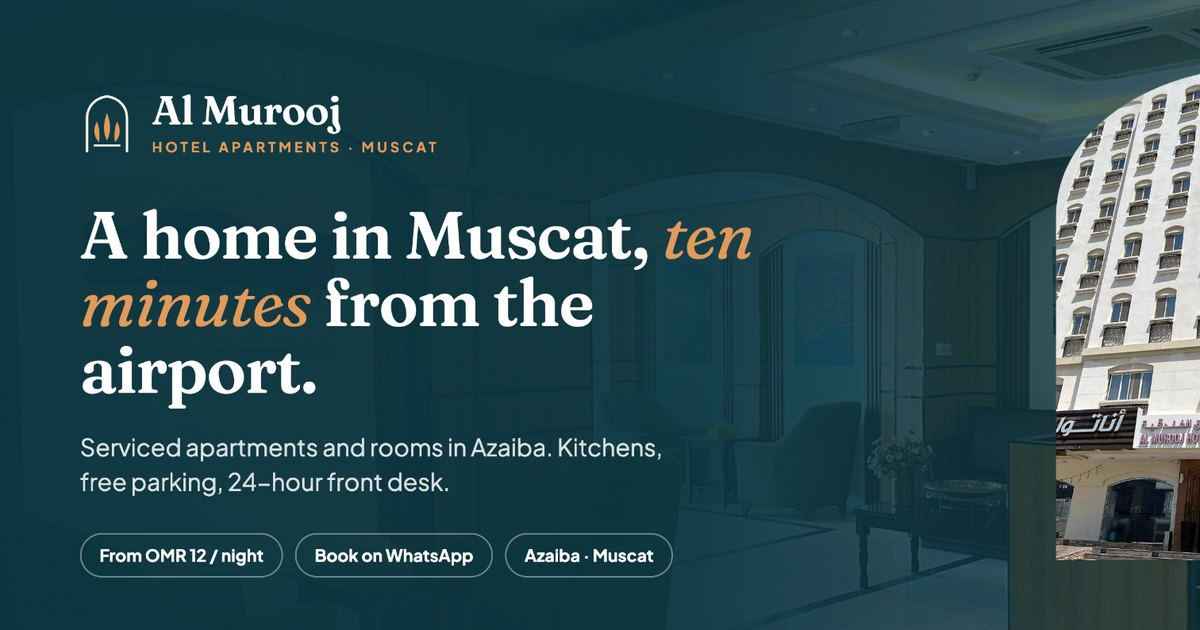
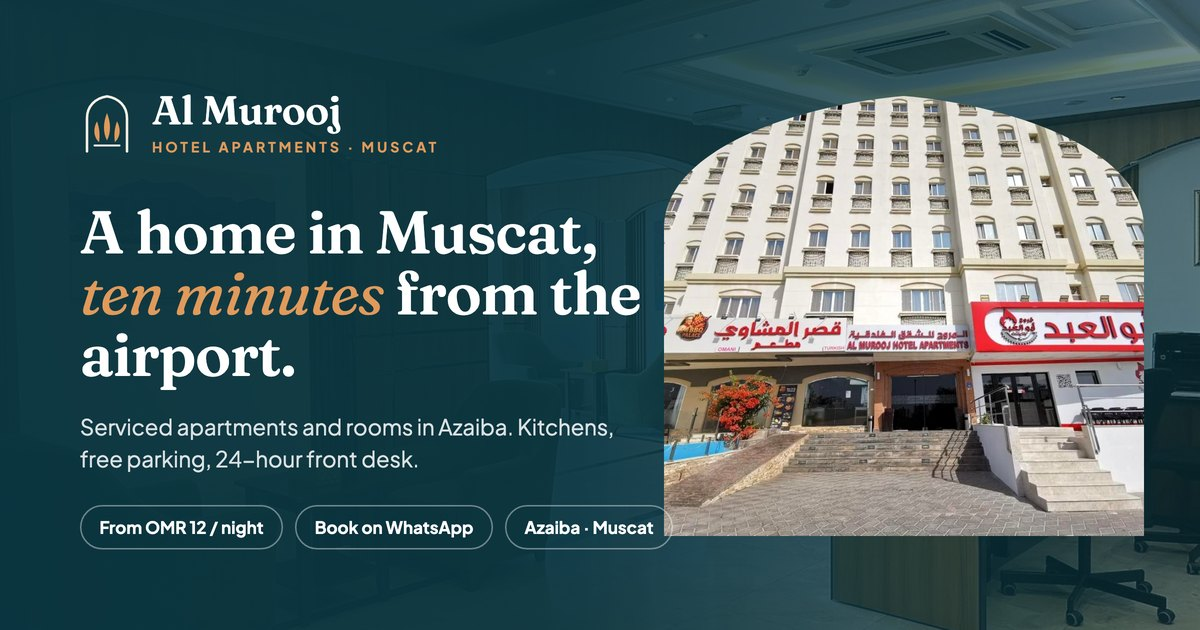
Hero: use the owner's chosen street photo as the main image
The hotel asked on WhatsApp for the street-level photo (building, entrance
steps and restaurants) as the main photo. It is the same shot as the listing's
exterior-street.jpg, so the 1280px copy is used instead of the 697px WhatsApp
file. The hero arch is now landscape so the whole photo shows; the social
preview image is re-rendered with it; the badge styles lost in the CSS edit
are restored.

diff --git a/assets/css/style.css b/assets/css/style.css
@@ -119,12 +119,12 @@ html[lang="ar"] .brand-sub{letter-spacing:0;font-size:12px}
 .trust{list-style:none;margin:0;padding:0;display:flex;flex-wrap:wrap;gap:10px 22px;font-size:14.5px;color:var(--muted);font-weight:600}
 .trust li{display:inline-flex;align-items:center;gap:8px}
 .trust svg{width:18px;height:18px;color:var(--copper)}
-.hero-art{position:relative;min-height:520px}
+.hero-art{position:relative;padding-bottom:12%}
 .arch{clip-path:url(#arch)}
-.hero-arch{margin:0;position:absolute;inset-inline-end:0;top:0;width:72%;aspect-ratio:3/4.4;background:var(--stone)}
+.hero-arch{margin:0;position:relative;width:100%;aspect-ratio:4/3.15;background:var(--stone)}
 .hero-arch img,.hero-arch-sm img{width:100%;height:100%;object-fit:cover}
-.hero-arch-sm{margin:0;position:absolute;inset-inline-start:0;bottom:-6%;width:40%;aspect-ratio:3/4;box-shadow:0 30px 60px -20px rgba(10,53,64,.45);border:6px solid var(--sand);background:var(--stone)}
-.hero-badge{position:absolute;inset-inline-start:6%;top:10%;background:#fff;border-radius:18px;padding:14px 18px;box-shadow:var(--shadow);display:flex;flex-direction:column;line-height:1.1;border:1px solid var(--stone)}
+.hero-arch-sm{margin:0;position:absolute;inset-inline-start:-4%;bottom:0;width:32%;aspect-ratio:3/4;box-shadow:0 30px 60px -20px rgba(10,53,64,.45);border:6px solid var(--sand);background:var(--stone)}
+.hero-badge{position:absolute;inset-inline-start:5%;top:7%;background:#fff;border-radius:18px;padding:14px 18px;box-shadow:var(--shadow);display:flex;flex-direction:column;line-height:1.1;border:1px solid var(--stone)}
 .badge-k{font-size:12px;font-weight:700;letter-spacing:.12em;text-transform:uppercase;color:var(--muted)}
 html[lang="ar"] .badge-k{letter-spacing:0;font-size:13px}
 .badge-v{font-family:var(--display);font-size:30px;color:var(--teal);font-weight:600;margin:4px 0}
@@ -402,7 +402,7 @@ body.lb-open{overflow:hidden}
   .booking{grid-template-columns:1fr 1fr}
   .booking .btn{grid-column:1/-1}
   .hero-grid,.story-grid,.stay-grid,.dining-grid,.location-grid,.reviews-grid,.know-grid{grid-template-columns:1fr}
-  .hero-art{min-height:0;aspect-ratio:1/1;max-width:560px}
+  .hero-art{max-width:600px}
   .rooms-grid{grid-template-columns:1fr}
   .quotes{grid-template-columns:1fr}
   .glance ul{grid-template-columns:repeat(3,1fr)}

diff --git a/og-preview.html b/og-preview.html
@@ -4,15 +4,15 @@
 html,body{margin:0;width:1200px;height:630px;overflow:hidden;background:#0A3540;font-family:"Plus Jakarta Sans",sans-serif}
 .bg{position:absolute;inset:0;background:url(assets/img/photos/lobby.jpg) center/cover;opacity:.55}
 .grad{position:absolute;inset:0;background:linear-gradient(90deg,rgba(10,53,64,.96) 0%,rgba(10,53,64,.9) 48%,rgba(10,53,64,.25) 100%)}
-.arch{position:absolute;right:70px;top:70px;width:330px;height:490px;clip-path:path("M0 490V147C0 59 92 10 165 0C238 10 330 59 330 147V490Z");background:url(assets/img/photos/exterior-facade.jpg) center/cover}
-.copy{position:absolute;left:80px;top:90px;width:680px;color:#fff}
+.arch{position:absolute;right:56px;top:96px;width:480px;height:440px;clip-path:path("M0 440V132C0 53 134 9 240 0C346 9 480 53 480 132V440Z");background:url(assets/img/photos/exterior-street.jpg) center/cover}
+.copy{position:absolute;left:80px;top:90px;width:600px;color:#fff}
 .brand{display:flex;align-items:center;gap:18px;margin-bottom:46px}
 .brand svg{width:54px;height:60px;color:#F6F0E6}
 .brand b{font-family:Fraunces,serif;font-weight:600;font-size:40px;letter-spacing:-.01em;display:block;line-height:1}
 .brand span{font-size:14px;letter-spacing:.22em;text-transform:uppercase;color:#E09A5B;font-weight:700;display:block;margin-top:8px}
-h1{font-family:Fraunces,serif;font-weight:600;font-size:66px;line-height:1.02;letter-spacing:-.015em;margin:0 0 26px}
+h1{font-family:Fraunces,serif;font-weight:600;font-size:60px;line-height:1.02;letter-spacing:-.015em;margin:0 0 26px}
 h1 em{font-style:italic;font-weight:400;color:#E09A5B}
-p{font-size:24px;line-height:1.45;color:rgba(255,255,255,.85);margin:0 0 34px;max-width:600px}
+p{font-size:22px;line-height:1.45;color:rgba(255,255,255,.85);margin:0 0 30px;max-width:560px}
 .chips{display:flex;gap:12px;flex-wrap:wrap}
 .chips span{border:1.5px solid rgba(255,255,255,.4);border-radius:999px;padding:10px 18px;font-size:17px;font-weight:700}
 </style></head><body>

diff --git a/ar/index.html b/ar/index.html
@@ -246,7 +246,7 @@
       </ul>
     </div>
     <div class="hero-art reveal in">
-      <figure class="hero-arch arch"><img srcset="../assets/img/photos/exterior-facade-540.webp 540w, ../assets/img/photos/exterior-facade-800.webp 800w, ../assets/img/photos/exterior-facade-1080.webp 900w" sizes="(max-width:860px) 100vw, 40vw" src="../assets/img/photos/exterior-facade.jpg" alt="واجهة المروج للشقق الفندقية البيضاء بنوافذها المقوّسة تحت سماء مسقط الزرقاء" width="900" height="1600" fetchpriority="high"></figure>
+      <figure class="hero-arch arch"><img srcset="../assets/img/photos/exterior-street-540.webp 540w, ../assets/img/photos/exterior-street-800.webp 800w, ../assets/img/photos/exterior-street-1080.webp 1080w" sizes="(max-width:860px) 100vw, 40vw" src="../assets/img/photos/exterior-street.jpg" alt="المروج للشقق الفندقية من الشارع: المبنى الأبيض بنوافذه المقوّسة ودرج المدخل والمطاعم في الطابق الأرضي تحت سماء زرقاء" width="1280" height="960" fetchpriority="high"></figure>
       <figure class="hero-arch-sm arch"><img srcset="../assets/img/photos/room-double-3-540.webp 540w, ../assets/img/photos/room-double-3-800.webp 800w, ../assets/img/photos/room-double-3-1080.webp 960w" sizes="(max-width:860px) 100vw, 40vw" src="../assets/img/photos/room-double-3.jpg" alt="غرفة مزدوجة بسرير كينغ ووسائد فيروزية ومنشفة مطوية على شكل بجعة" width="960" height="1280" loading="lazy"></figure>
       <div class="hero-badge"><span class="badge-k">الغرف تبدأ من</span><span class="badge-v">12 ر.ع</span><span class="badge-k">في الليلة</span></div>
     </div>

diff --git a/index.html b/index.html
@@ -246,7 +246,7 @@
       </ul>
     </div>
     <div class="hero-art reveal in">
-      <figure class="hero-arch arch"><img srcset="assets/img/photos/exterior-facade-540.webp 540w, assets/img/photos/exterior-facade-800.webp 800w, assets/img/photos/exterior-facade-1080.webp 900w" sizes="(max-width:860px) 100vw, 40vw" src="assets/img/photos/exterior-facade.jpg" alt="The white facade of Al Murooj Hotel Apartments with its arched windows against a blue Muscat sky" width="900" height="1600" fetchpriority="high"></figure>
+      <figure class="hero-arch arch"><img srcset="assets/img/photos/exterior-street-540.webp 540w, assets/img/photos/exterior-street-800.webp 800w, assets/img/photos/exterior-street-1080.webp 1080w" sizes="(max-width:860px) 100vw, 40vw" src="assets/img/photos/exterior-street.jpg" alt="Al Murooj Hotel Apartments from the street: the white building with its arched windows, the entrance steps and the restaurants at street level under a blue sky" width="1280" height="960" fetchpriority="high"></figure>
       <figure class="hero-arch-sm arch"><img srcset="assets/img/photos/room-double-3-540.webp 540w, assets/img/photos/room-double-3-800.webp 800w, assets/img/photos/room-double-3-1080.webp 960w" sizes="(max-width:860px) 100vw, 40vw" src="assets/img/photos/room-double-3.jpg" alt="Double room with a king bed, teal cushions and a towel swan" width="960" height="1280" loading="lazy"></figure>
       <div class="hero-badge"><span class="badge-k">Rooms from</span><span class="badge-v">OMR 12</span><span class="badge-k">per night</span></div>
     </div>
